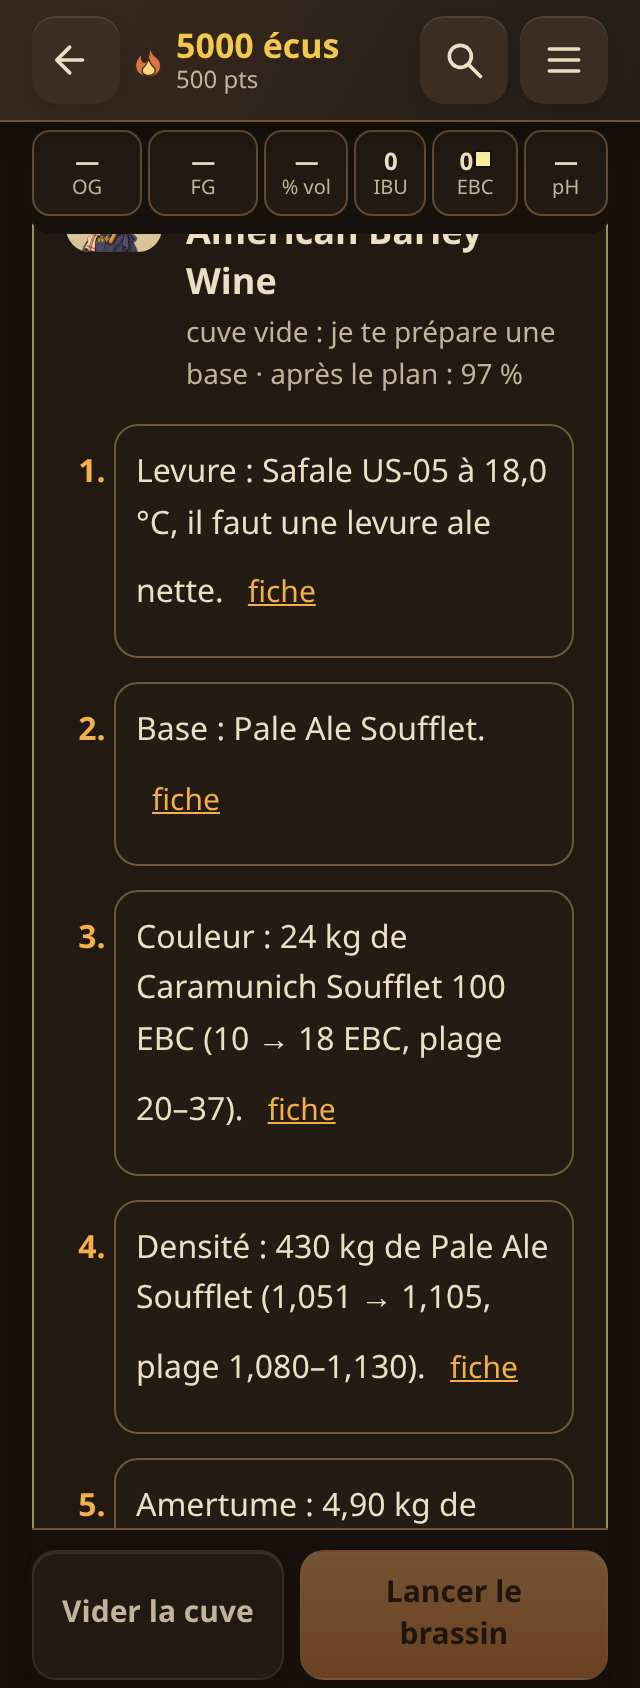
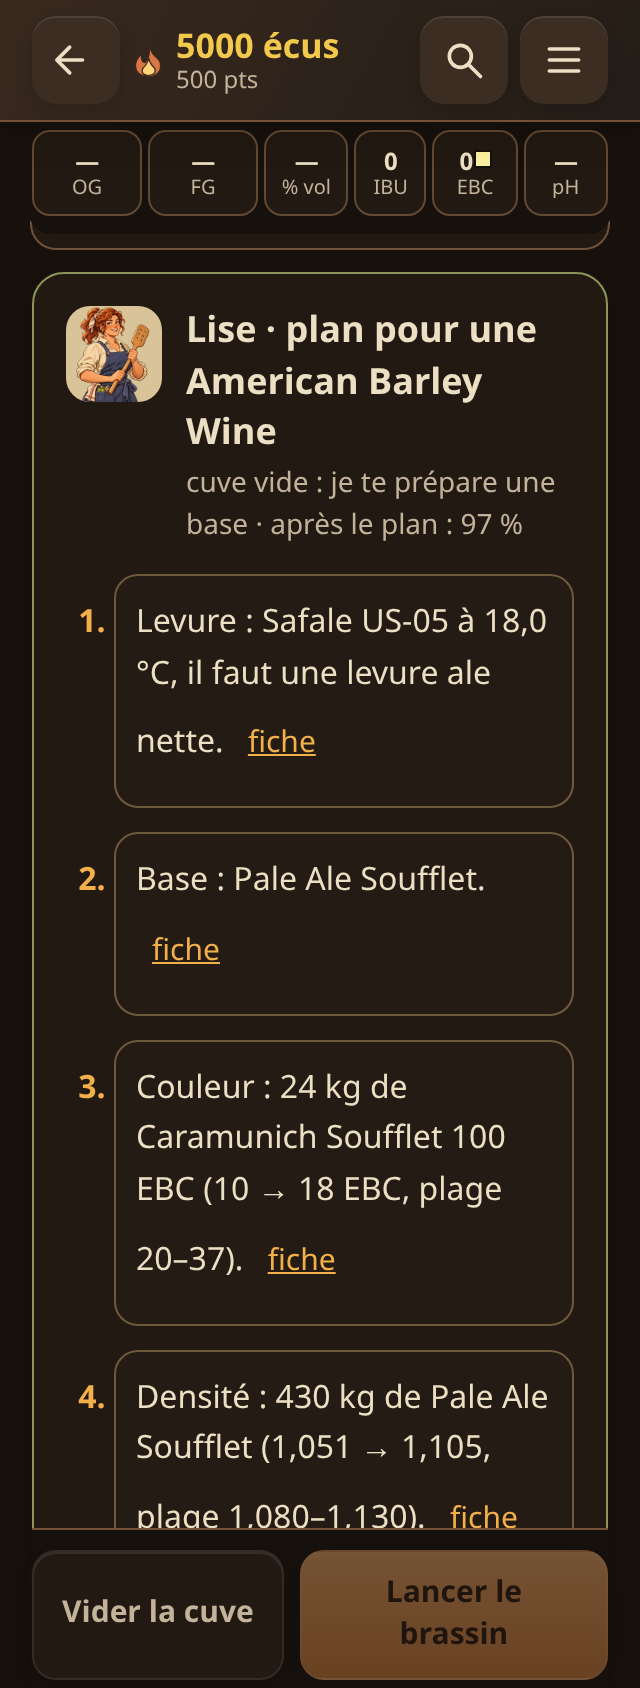
Garder le portrait visible dans la capture du plan de Lise

diff --git a/docs/PROGRESSION_CODEX.md b/docs/PROGRESSION_CODEX.md
@@ -3,6 +3,7 @@
 ## Lot autorisé de 50 — mission 12 : Plan de Lise : portrait net et étapes tactiles
 
 Statut : terminée sur `work/lot50-12-plan-lise`, sans fusion.
+Capture ajustée au bandeau fixe des mesures pour garder le portrait dans le viewport, puis scénario 320/390 rejoué.
 Portrait illustré en rendu lisse, étapes lisibles, liens de fiche de 44 px et actions de 48 px. Application effective du plan à une cuve vide, levure et malts obtenus, cible conservée, aller-retour fiche et abandon de cible sans vider la recette vérifiés.
 
 Validation : build, six suites Node, contrôle Chromium 320/390 px DPR 2 réussis ;
